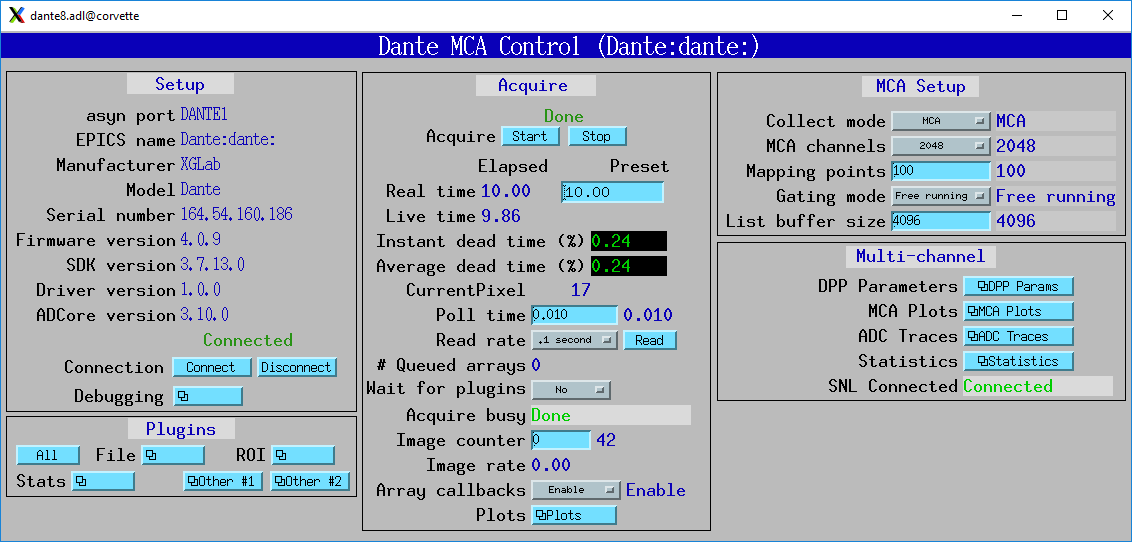
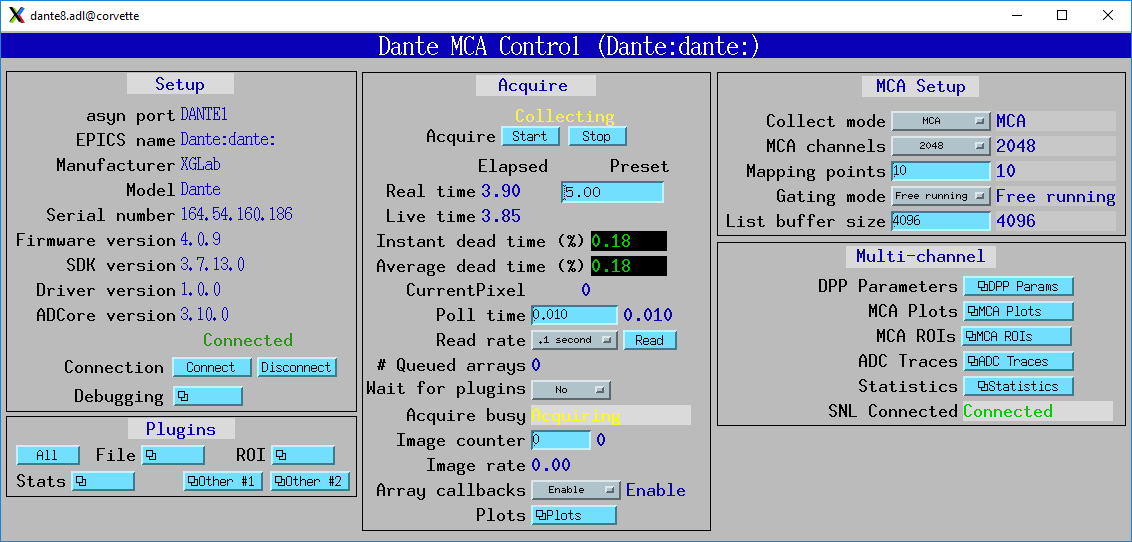
Add dante8ROI

diff --git a/docs/source/index.rst b/docs/source/index.rst
@@ -336,7 +336,7 @@ Multi-element systems
 ---------------------
 Multi-element detector (MED) systems use an EPICS State Notation Language (SNL) program to synchronize and copy PVs.
 
-These are the records for multi-element detector (MED) systems. They are contained in danteMED.template.
+These are the records for multi-element detector systems. They are contained in danteMED.template.
 
 .. cssclass:: table-bordered table-striped table-hover
 .. list-table::
@@ -344,11 +344,8 @@ These are the records for multi-element detector (MED) systems. They are contain
    :widths: auto
 
    * - EPICS record names
-     - Record types
+     - Record type
      - Description
-   * - SNLConnected
-     - bi
-     - Indicates whether or not the SNL program is running.
    * - SNLConnected
      - bi
      - Indicates whether or not the SNL program is running.
@@ -361,7 +358,8 @@ These are the records for multi-element detector (MED) systems. They are contain
    * - Copy[XXX]
      - bo
      - Copies the setting XXX from board 0 to all other enabled boards.
-       XXX can be any of the configuration parameters described above.
+       XXX can be any of the configuration parameters described above,
+       for example Gain, AnalogOffset, etc.
        XXX can also be the definition of the ROIs for the MCA records.  
        In this case the copy can be either by MCA channel number, or by x-ray energy,
        using the calibration coefficients in the MCA record.
@@ -379,6 +377,12 @@ The following is the MEDM screen dante8MCA.adl. This screen is used with the Dan
 The following is the MEDM screen dante8Statistics.adl. This screen is used with the Dante8.
 
 .. figure:: dante8Statistics.png
+    :align: center
+
+The following is the MEDM screen dante8ROI.adl. This screen is used with the Dante8.
+It allows copying the definition of 16 ROIs from board 0 to all boards.
+
+.. figure:: dante8ROI.png
     :align: center
 
 MCA mode
